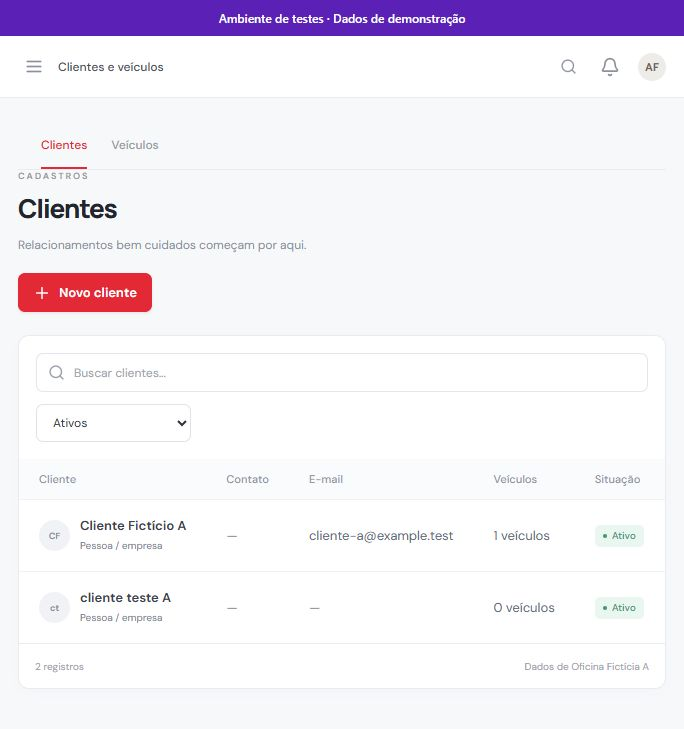
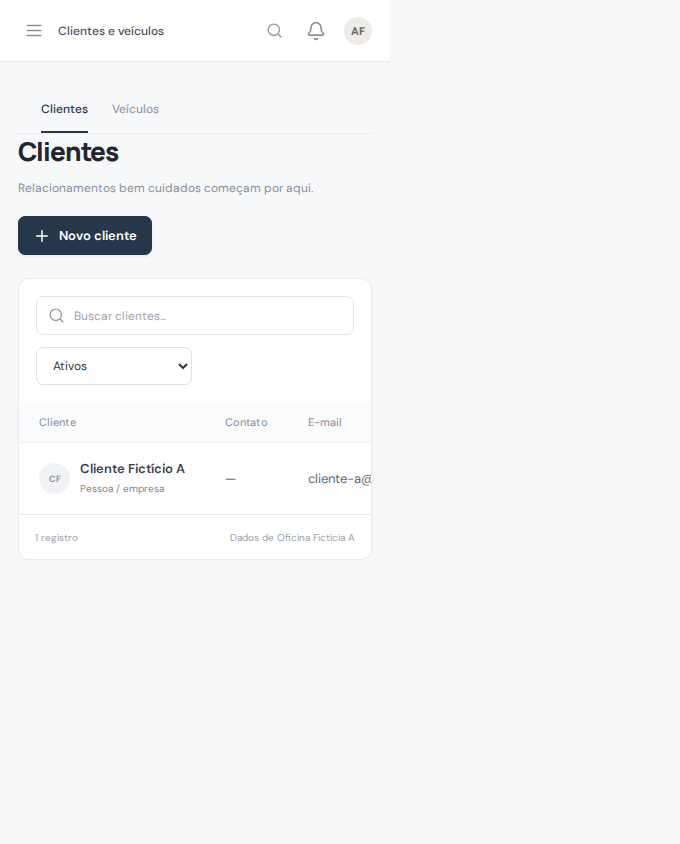
docs(registers): refresh client and vehicle tab captures

diff --git a/docs/mapeamento-visual/CHECKLIST.md b/docs/mapeamento-visual/CHECKLIST.md
@@ -11,9 +11,9 @@ Estados: capturada, pendente, bloqueada e não aplicável.
 | dashboard-oficina-a | Dashboard | Visão geral da Oficina Fictícia A — Indicadores vazios da oficina de teste. | [`capturas/02-dashboard/dashboard-oficina.png`](./capturas/02-dashboard/dashboard-oficina.png) | capturada | 2026-10-22 | não registrado | Captura real com dados fictícios feita em 22/10/2026. O commit de origem não foi registrado; recaptura Playwright e atualização do commit estão pendentes. |
 | inicio-oficina-b | Dashboard | Início da Oficina Fictícia B — Menu e atalhos em uma segunda conta fictícia. | [`capturas/02-dashboard/inicio-oficina-oficina-b.png`](./capturas/02-dashboard/inicio-oficina-oficina-b.png) | capturada | 2026-10-22 | não registrado | Captura real com dados fictícios feita em 22/10/2026. O commit de origem não foi registrado; recaptura Playwright e atualização do commit estão pendentes. |
 | dashboard-oficina-b | Dashboard | Visão geral da Oficina Fictícia B — Indicadores da segunda conta fictícia para referência de isolamento. | [`capturas/02-dashboard/dashboard-oficina-b.png`](./capturas/02-dashboard/dashboard-oficina-b.png) | capturada | 2026-10-22 | não registrado | Captura real com dados fictícios feita em 22/10/2026. O commit de origem não foi registrado; recaptura Playwright e atualização do commit estão pendentes. |
-| clientes-lista-a | Clientes | Clientes da Oficina Fictícia A — Lista e pesquisa com dados de demonstração. | [`capturas/03-clientes/clientes-lista-oficina-a.png`](./capturas/03-clientes/clientes-lista-oficina-a.png) | capturada | 2026-10-22 | não registrado | Captura real com dados fictícios feita em 22/10/2026. O commit de origem não foi registrado; recaptura Playwright e atualização do commit estão pendentes. |
+| clientes-lista-a | Clientes | Clientes da Oficina Fictícia A — Lista de clientes sem rótulo repetido abaixo das abas. | [`capturas/03-clientes/clientes-lista-oficina-a.png`](./capturas/03-clientes/clientes-lista-oficina-a.png) | capturada | 2026-11-02 | 862d4707a324e69538296a9f4de90fd6d4f36fd4 | — |
 | clientes-lista-b | Clientes | Clientes da Oficina Fictícia B — Lista da segunda oficina fictícia; não contém registros da Oficina A. | [`capturas/03-clientes/clientes-lista-oficina-b.png`](./capturas/03-clientes/clientes-lista-oficina-b.png) | capturada | 2026-10-22 | não registrado | Captura real com dados fictícios feita em 22/10/2026. O commit de origem não foi registrado; recaptura Playwright e atualização do commit estão pendentes. |
-| veiculos-lista-a | Veículos | Veículos da Oficina Fictícia A — Lista de veículos e vínculo com cliente fictício. | [`capturas/04-veiculos/veiculos-lista-oficina-a.png`](./capturas/04-veiculos/veiculos-lista-oficina-a.png) | capturada | 2026-10-22 | não registrado | Captura real com dados fictícios feita em 22/10/2026. O commit de origem não foi registrado; recaptura Playwright e atualização do commit estão pendentes. |
+| veiculos-lista-a | Veículos | Veículos da Oficina Fictícia A — Lista de veículos sem rótulo repetido abaixo das abas. | [`capturas/04-veiculos/veiculos-lista-oficina-a.png`](./capturas/04-veiculos/veiculos-lista-oficina-a.png) | capturada | 2026-11-02 | 862d4707a324e69538296a9f4de90fd6d4f36fd4 | — |
 | veiculos-lista-b | Veículos | Veículos da Oficina Fictícia B — Lista de veículos da segunda oficina fictícia. | [`capturas/04-veiculos/veiculos-lista-oficina-b.png`](./capturas/04-veiculos/veiculos-lista-oficina-b.png) | capturada | 2026-10-22 | não registrado | Captura real com dados fictícios feita em 22/10/2026. O commit de origem não foi registrado; recaptura Playwright e atualização do commit estão pendentes. |
 | checklist-lista | Checklist | Lista de checklists — Estado vazio da lista de checklists. | [`capturas/05-checklist/lista-checklists.png`](./capturas/05-checklist/lista-checklists.png) | capturada | 2026-10-22 | não registrado | Captura real com dados fictícios feita em 22/10/2026. O commit de origem não foi registrado; recaptura Playwright e atualização do commit estão pendentes. |
 | checklist-novo | Checklist | Novo checklist — Estado inicial do formulário; não foi criado nenhum registro. | [`capturas/05-checklist/novo-checklist.png`](./capturas/05-checklist/novo-checklist.png) | capturada | 2026-10-22 | não registrado | Captura real com dados fictícios feita em 22/10/2026. O commit de origem não foi registrado; recaptura Playwright e atualização do commit estão pendentes. |

diff --git a/docs/mapeamento-visual/INDEX.md b/docs/mapeamento-visual/INDEX.md
@@ -56,11 +56,11 @@ Lista, pesquisa, cadastro e edição de clientes.
 
 ### Clientes da Oficina Fictícia A
 
-Lista e pesquisa com dados de demonstração.
+Lista de clientes sem rótulo repetido abaixo das abas.
 
 [![Clientes da Oficina Fictícia A](./capturas/03-clientes/clientes-lista-oficina-a.png)](./capturas/03-clientes/clientes-lista-oficina-a.png)
 
-Estado: capturada · mobile · captura 2026-10-22 · commit de origem: não registrado · [arquivo completo](./capturas/03-clientes/clientes-lista-oficina-a.png)
+Estado: capturada · mobile · captura 2026-11-02 · commit de origem: 862d4707a324e69538296a9f4de90fd6d4f36fd4 · [arquivo completo](./capturas/03-clientes/clientes-lista-oficina-a.png)
 
 ### Clientes da Oficina Fictícia B
 
@@ -76,11 +76,11 @@ Lista, pesquisa, seleção e edição de veículos.
 
 ### Veículos da Oficina Fictícia A
 
-Lista de veículos e vínculo com cliente fictício.
+Lista de veículos sem rótulo repetido abaixo das abas.
 
 [![Veículos da Oficina Fictícia A](./capturas/04-veiculos/veiculos-lista-oficina-a.png)](./capturas/04-veiculos/veiculos-lista-oficina-a.png)
 
-Estado: capturada · mobile · captura 2026-10-22 · commit de origem: não registrado · [arquivo completo](./capturas/04-veiculos/veiculos-lista-oficina-a.png)
+Estado: capturada · mobile · captura 2026-11-02 · commit de origem: 862d4707a324e69538296a9f4de90fd6d4f36fd4 · [arquivo completo](./capturas/04-veiculos/veiculos-lista-oficina-a.png)
 
 ### Veículos da Oficina Fictícia B
 
